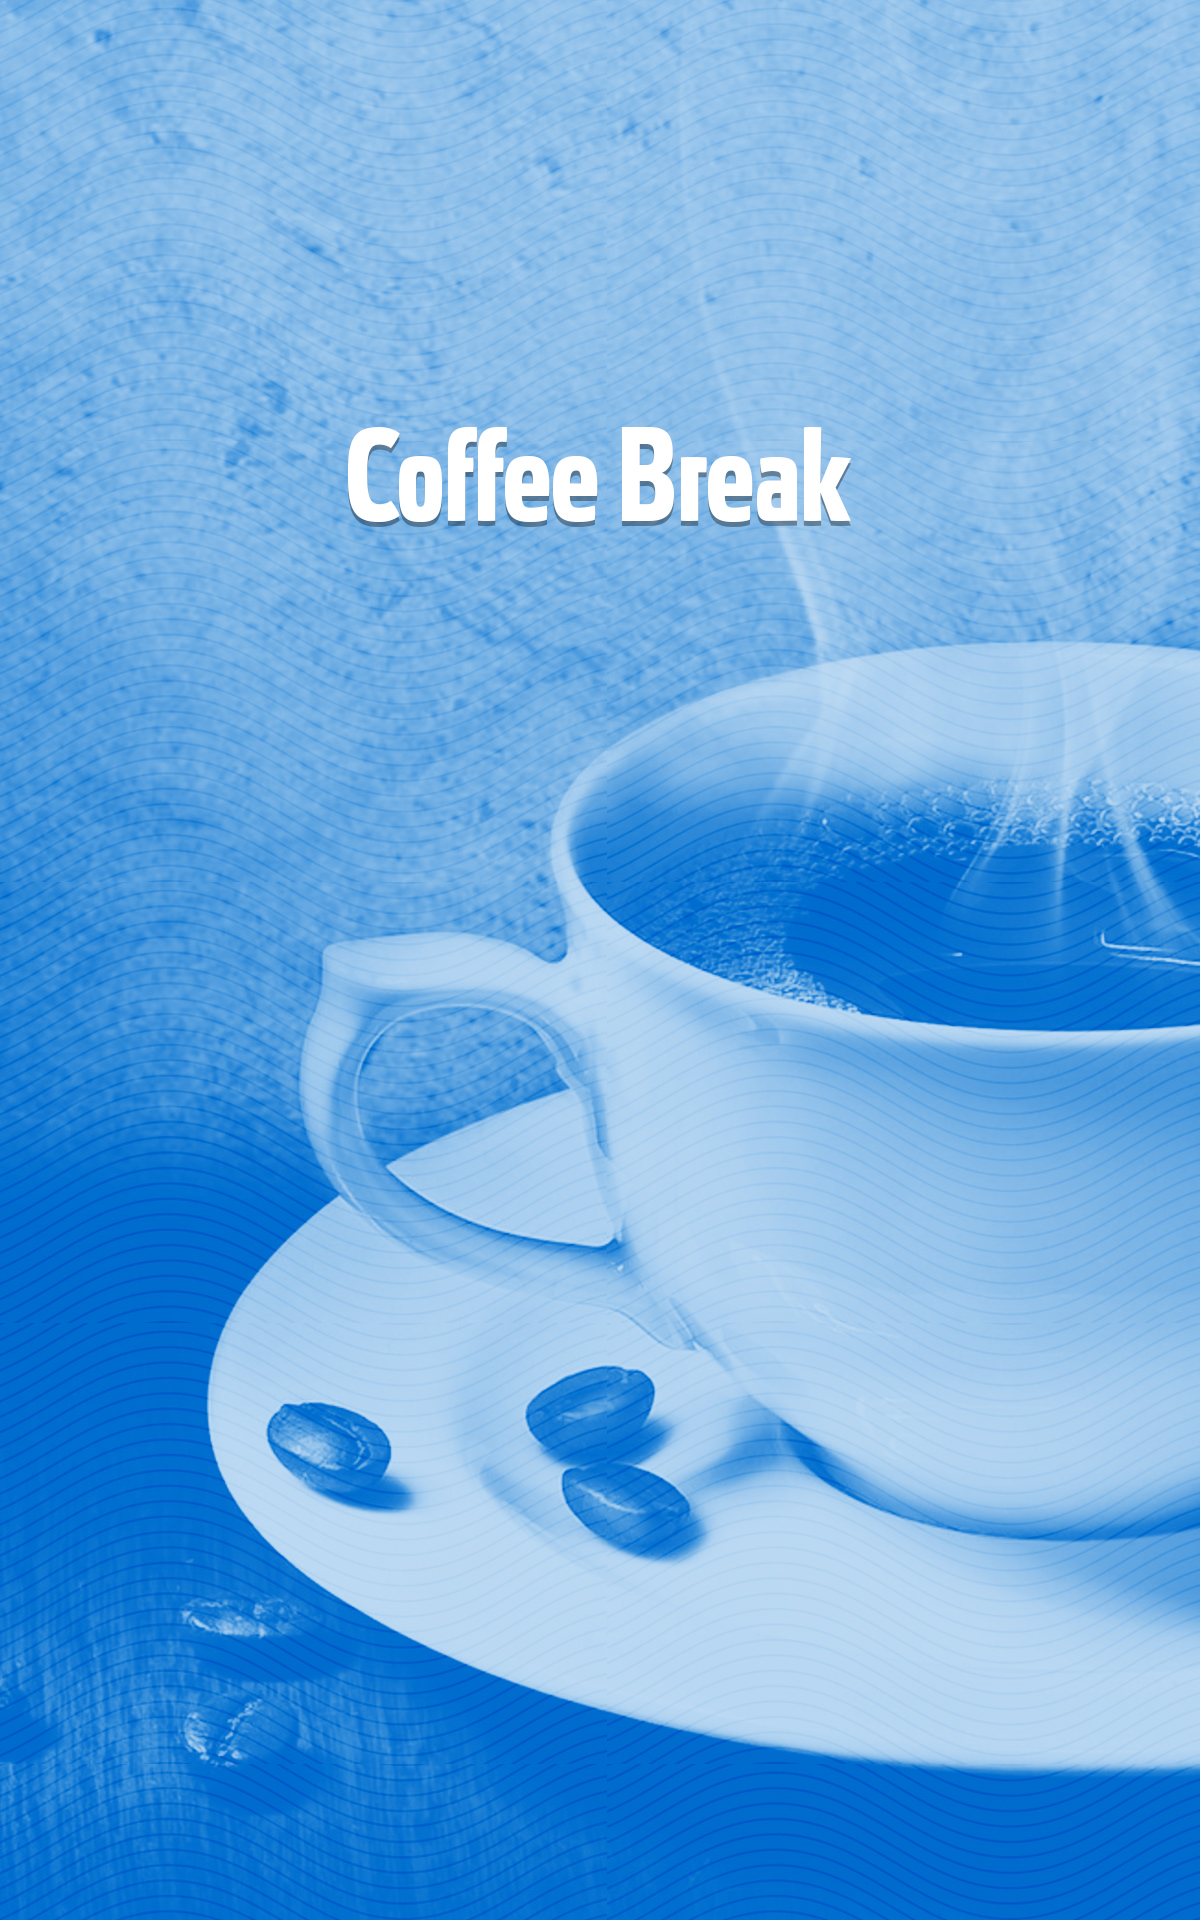
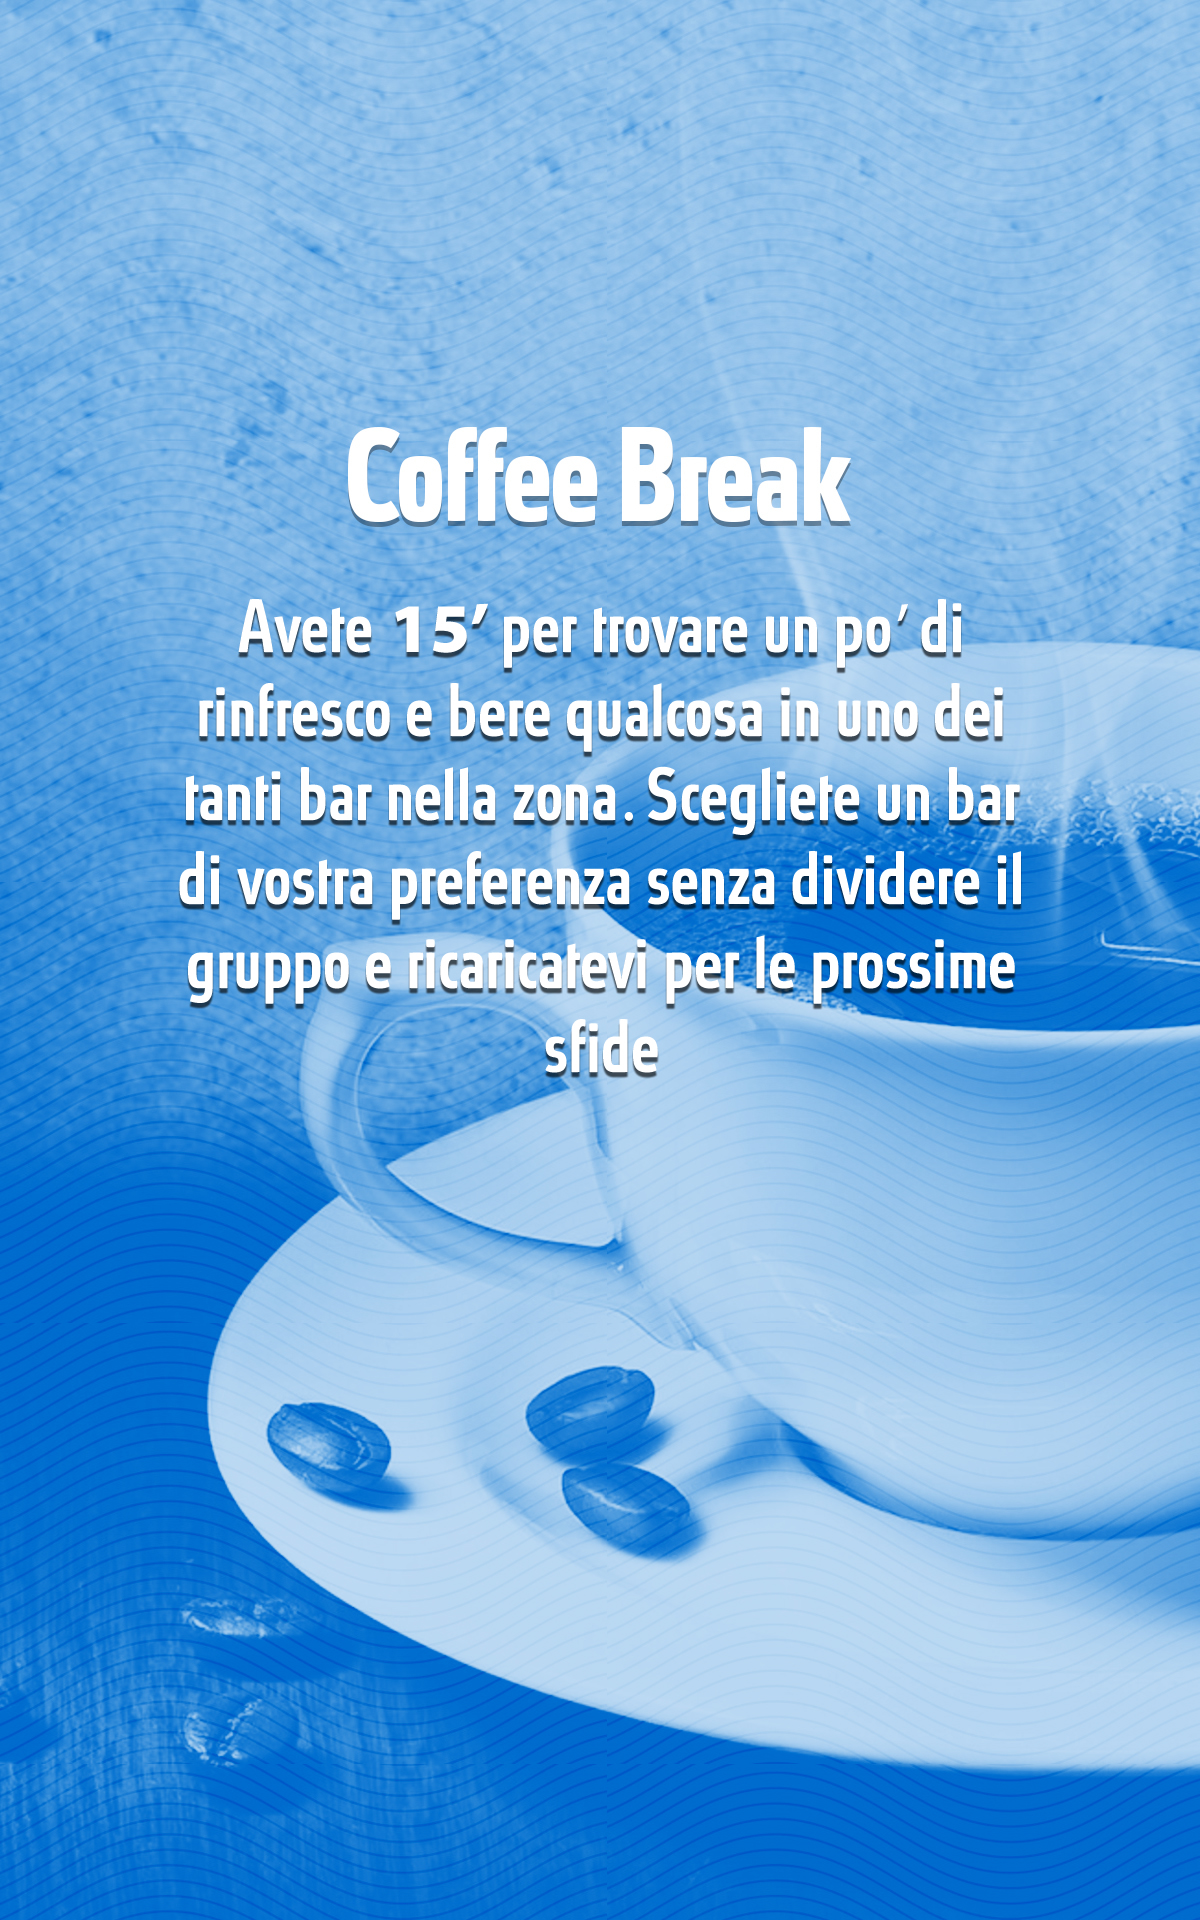
fix pagina pause

Changed region(s): [[0.1542, 0.3125, 0.8633, 0.5625]]

diff --git a/src/app/pages/tappa/tappa.page.scss b/src/app/pages/tappa/tappa.page.scss
@@ -19,7 +19,7 @@ ion-card-title {
     background: #fefefe url('/assets/img/round-help-button.png') no-repeat -15px -15px;
 }
 ion-img {
-    max-height: 35vh;
+    //max-height: 35vh;
     overflow: hidden;
 }
 ion-text {
